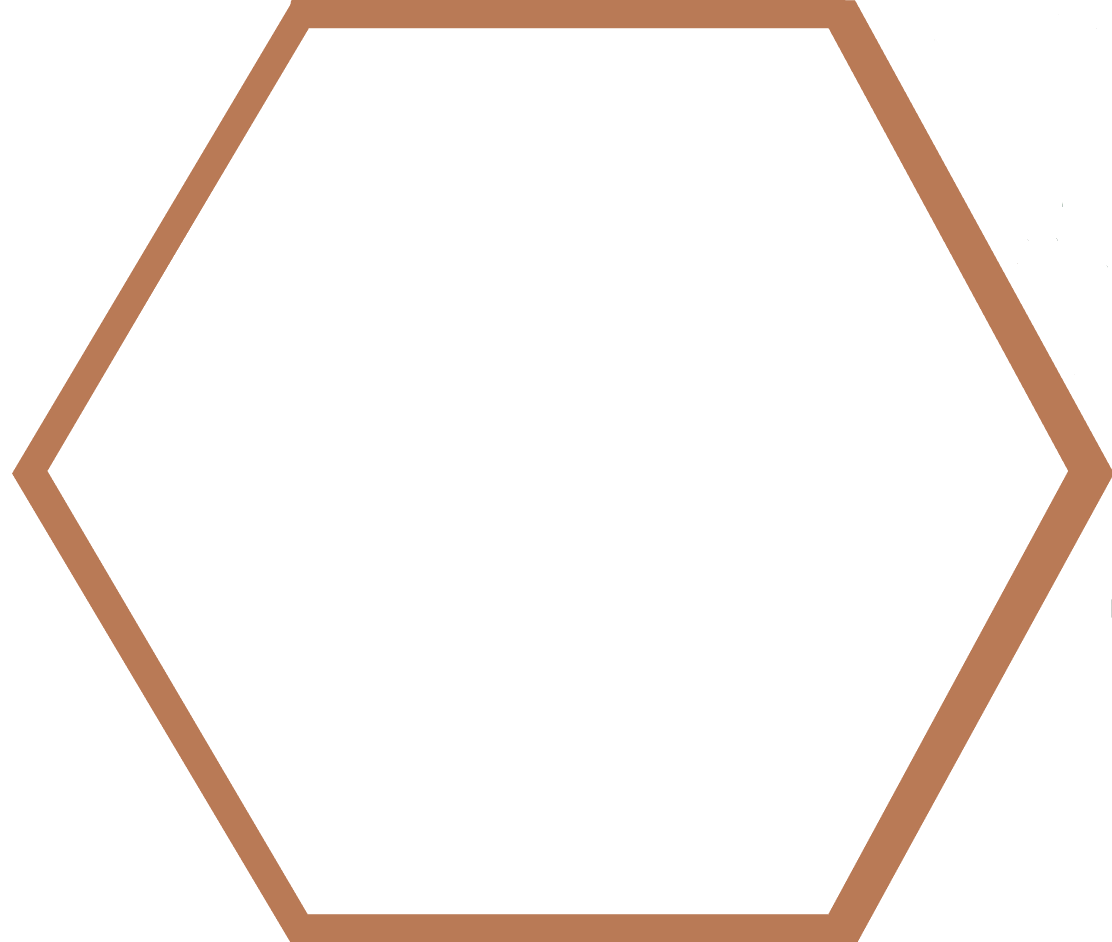
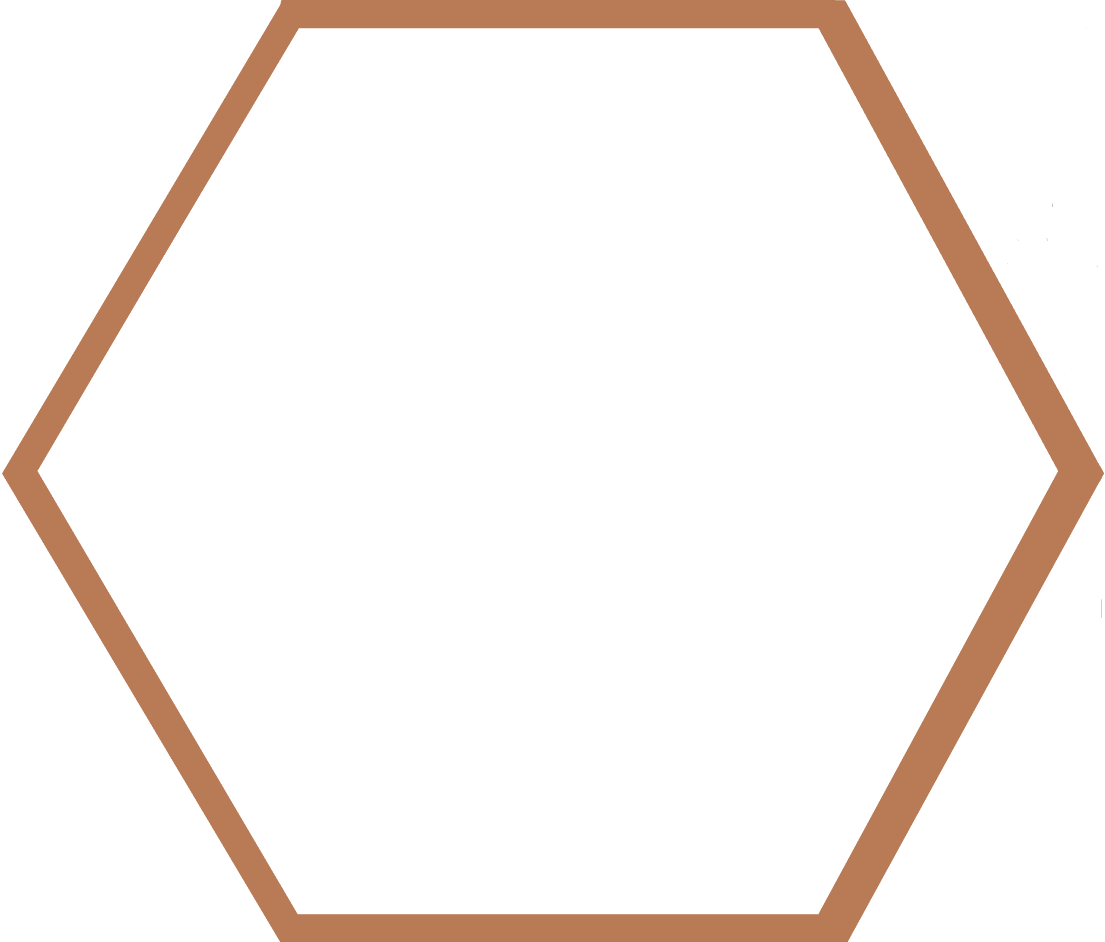
f2

diff --git a/lib/main.dart b/lib/main.dart
@@ -51,7 +51,11 @@ class MyGame extends FlameGame with HasTappables {
     double x_offset = screenWidth / 2;
     double y_offset = screenHeight / 2;
     // setup background2
-
+    background
+      ..sprite = await loadSprite( 'border2.png')
+      ..anchor = Anchor.center
+      ..size = Vector2((screenWidth/2)*1.18, screenHeight*0.93)
+      ..position = Vector2(-3+screenWidth / 2, screenHeight / 2);
     shuffleButton
       ..sprite = await loadSprite(dirmy + 'shuffle.png')
       ..size = buttonSize
@@ -64,10 +68,7 @@ class MyGame extends FlameGame with HasTappables {
       ..sprite = await loadSprite(dirmy + 'numbers.png')
       ..size = buttonSize
       ..position = Vector2(screenWidth - 3 * buttonSize[0] - 10, screenHeight - buttonSize[1] - 10);
-    background
-      ..sprite = await loadSprite(dirmy + 'k2.png')
-      ..size = Vector2(screenWidth, screenHeight)
-      ..position = Vector2(screenWidth / 2, screenHeight / 2);
+
 
     String na = "0";
     for (int i = 0; i < 23; i++) {
@@ -91,8 +92,12 @@ class MyGame extends FlameGame with HasTappables {
       playBoard.playFields[i].free = false;
     }
 
+
     playBoard.recalcPosition(triangleList, squareList, numberList, screenWidth, screenHeight);
     playBoard.recalcSize(triangleList, squareList, numberList, screenWidth, screenHeight);
+
+    background.size = Vector2(triangleList[0].size.x*4.33, triangleList[0].size.y*4.38);
+    add(background);
     for (int i = 0; i < 23; i++) {
       numberList[i].position.x = numberList[i].x_new;
       numberList[i].position.y = numberList[i].y_new;
@@ -104,7 +109,7 @@ class MyGame extends FlameGame with HasTappables {
         remove(numberList[i]);
       }
     }
-    add(background);
+
     add(shuffleButton);
     add(solveButton);
     add(displayNumbersButton);
@@ -137,19 +142,23 @@ class MyGame extends FlameGame with HasTappables {
       screenWidth = canvasSize.x;
       screenHeight = canvasSize.y;
       // print("scr($screenWidth,$screenHeight)");
+
       redrawScreen();
     }
   }
 
   void redrawScreen() {
     if (initDone == true) {
-      background.size = Vector2(screenWidth, screenHeight);
+      //background.size = Vector2(screenWidth, screenHeight);
+
       shuffleButton.position = Vector2(screenWidth - buttonSize[0] - 10, screenHeight - buttonSize[1] - 10);
       solveButton.position = Vector2(screenWidth - 2 * buttonSize[0] - 10, screenHeight - buttonSize[1] - 10);
       displayNumbersButton.position = Vector2(screenWidth - 3 * buttonSize[0] - 10, screenHeight - buttonSize[1] - 10);
 
       playBoard.recalcPosition(triangleList, squareList, numberList, screenWidth, screenHeight);
       playBoard.recalcSize(triangleList, squareList, numberList, screenWidth, screenHeight);
+
+      background.position = Vector2(-3+screenWidth / 2, screenHeight / 2);
       for (int i = 0; i < 23; i++) {
         numberList[i].position.x = numberList[i].x_new;
         numberList[i].position.y = numberList[i].y_new;
@@ -161,6 +170,7 @@ class MyGame extends FlameGame with HasTappables {
           remove(numberList[i]);
         }
       }
+      background.size = Vector2(triangleList[0].size.x*4.33, triangleList[0].size.y*4.38);
       add(shuffleButton);
       add(solveButton);
       add(displayNumbersButton);
